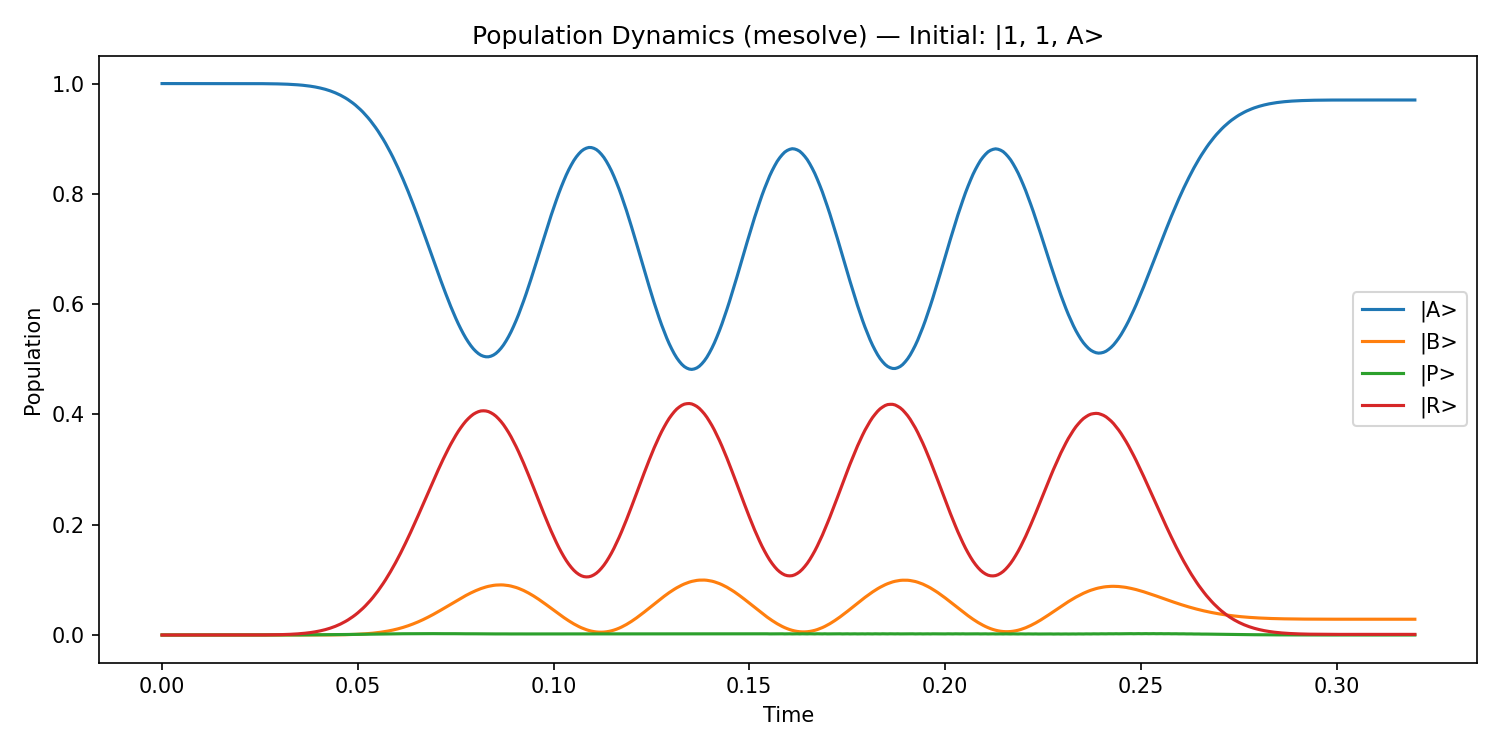
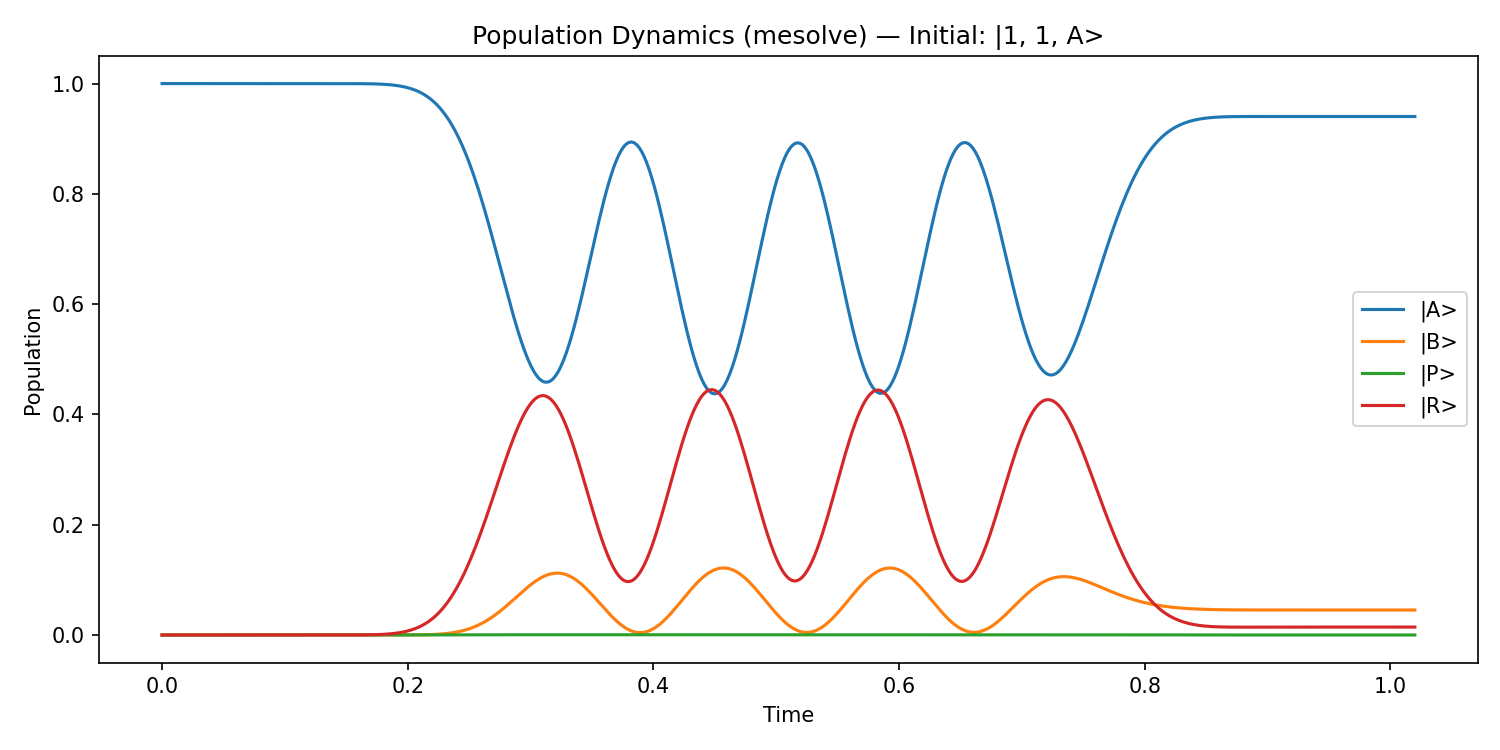
Gaussian pulse

diff --git a/examples/or_gate_mesolve.py b/examples/or_gate_mesolve.py
@@ -34,7 +34,7 @@ from triqg.visualization import plot_pulses, plot_populations
 
 # Rabi frequencies [MHz, angular]
 omega_c_amp = 2 * np.pi * 50  # Control pulse amplitude
-omega_p_amp = 2 * np.pi * 55    # Target probe pulse amplitude
+omega_p_amp = 2 * np.pi * 50 * 1.00057    # Target probe pulse amplitude
 omega_R_amp = 2.5 * omega_p_amp  # Target Rydberg coupling amplitude
 
 # Detuning [MHz, angular]
@@ -46,8 +46,8 @@ V_ct = 2 * np.pi * 500
 
 # Timing
 T_c = np.pi / omega_c_amp  # Duration of control pi-pulse
-T_f = 0.2  # Duration of target pulse window [us]
-sigma = 0.0014  # Target pulse width parameter [us^3]
+T_f = 0.5  # Duration of target pulse window [us]
+sigma = 0.0244  # Target pulse width parameter [us^3]
 
 # Decay rates [MHz] (gamma = 1 / lifetime)
 gamma_r = 1.0 / 548.0  # Cs Rydberg |r>, lifetime 548 us
@@ -70,6 +70,8 @@ args = {
 # Verify pulse area condition
 # =====================================================================
 area = compute_pulse_area(omega_p, delta, T_c, T_c + 2 * T_f, args)
+print(f"Effective two-photon pulse area: {area:.4f} (target: pi = {np.pi:.4f})")
+area = compute_two_photon_pulse_area(omega_p, omega_R, delta, T_c, T_c + 2 * T_f, args)
 print(f"Effective two-photon pulse area: {area:.4f} (target: pi = {np.pi:.4f})")
 
 # =====================================================================

diff --git a/triqg/pulses.py b/triqg/pulses.py
@@ -172,3 +172,46 @@ def compute_pulse_area(
 
     result, _ = integrate.quad(integrand, t_start, t_end)
     return result
+
+
+def compute_two_photon_pulse_area(
+    pulse_func_p: Callable,
+    pulse_func_R: Callable,
+    delta: float,
+    t_start: float,
+    t_end: float,
+    args: dict,
+) -> float:
+    """
+    Numerically integrate sqrt(2) * Omega_p(t) * Omega_R(t) / (2 * delta)
+    over [t_start, t_end].
+
+    This computes the effective two-photon Rabi angle for an off-resonant
+    Raman transition driven by two fields with detuning ``delta``.
+
+    Parameters
+    ----------
+    pulse_func_p : callable
+        Pulse function for Omega_p with signature ``f(t, args) -> float``.
+    pulse_func_R : callable
+        Pulse function for Omega_R with signature ``f(t, args) -> float``.
+    delta : float
+        Detuning (same units as pulse amplitudes).
+    t_start, t_end : float
+        Integration bounds.
+    args : dict
+        Arguments forwarded to both pulse functions.
+
+    Returns
+    -------
+    float
+        The integrated two-photon pulse area.
+    """
+
+    def integrand(t):
+        val_p = pulse_func_p(t, args)
+        val_R = pulse_func_R(t, args)
+        return np.sqrt(2) * val_p * val_R / (2 * delta)
+
+    result, _ = integrate.quad(integrand, t_start, t_end)
+    return result
